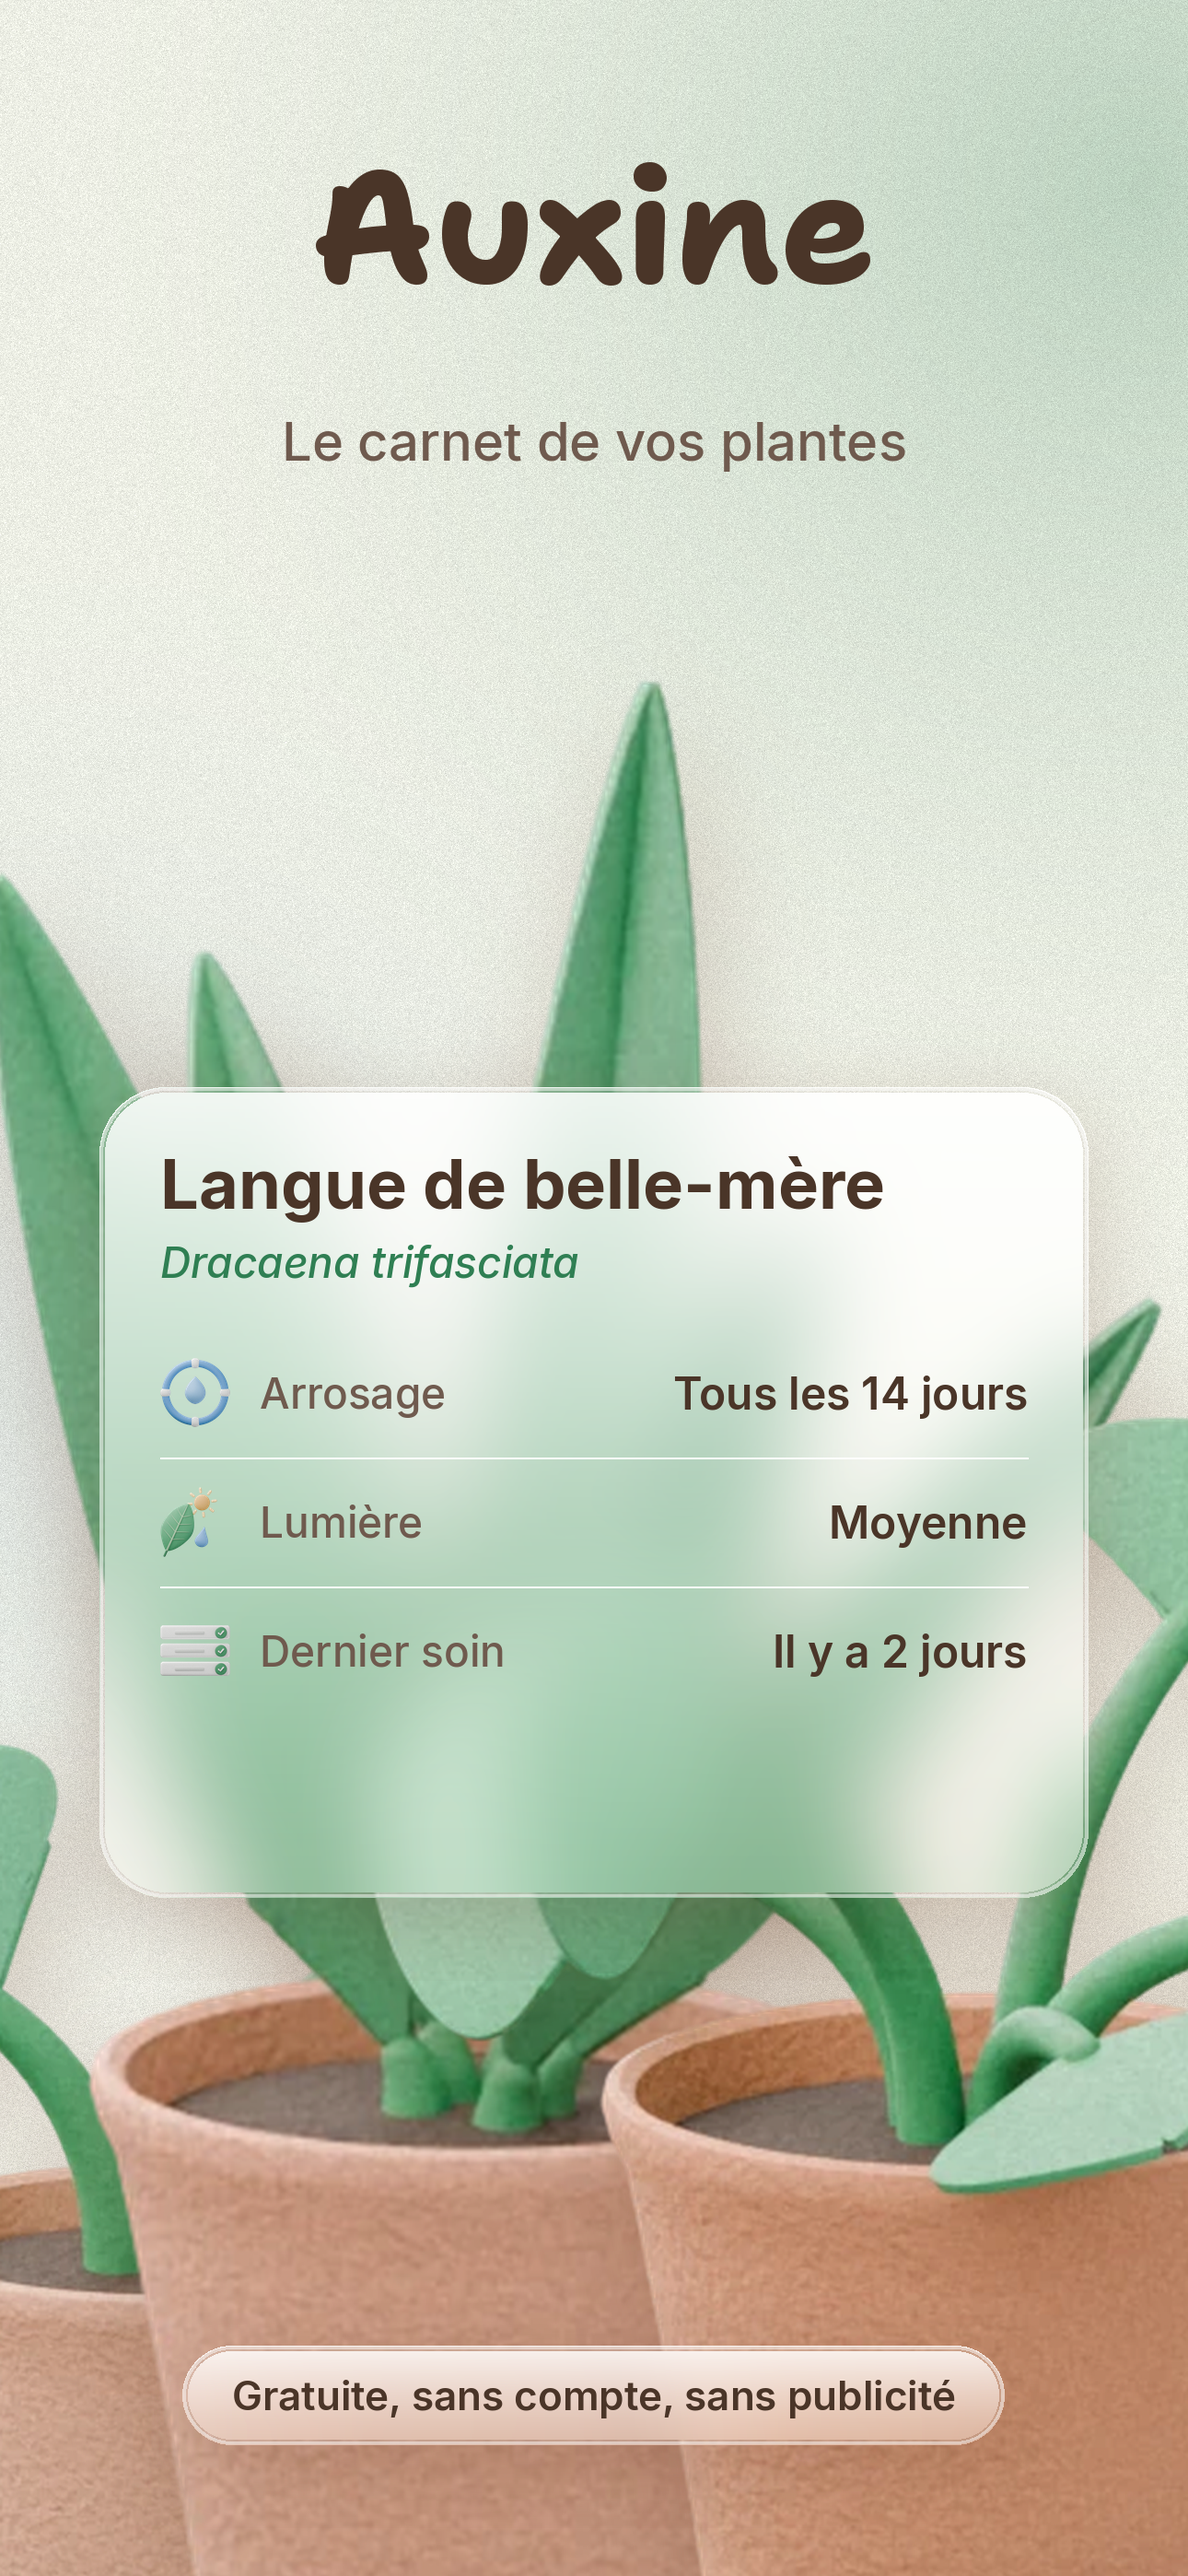
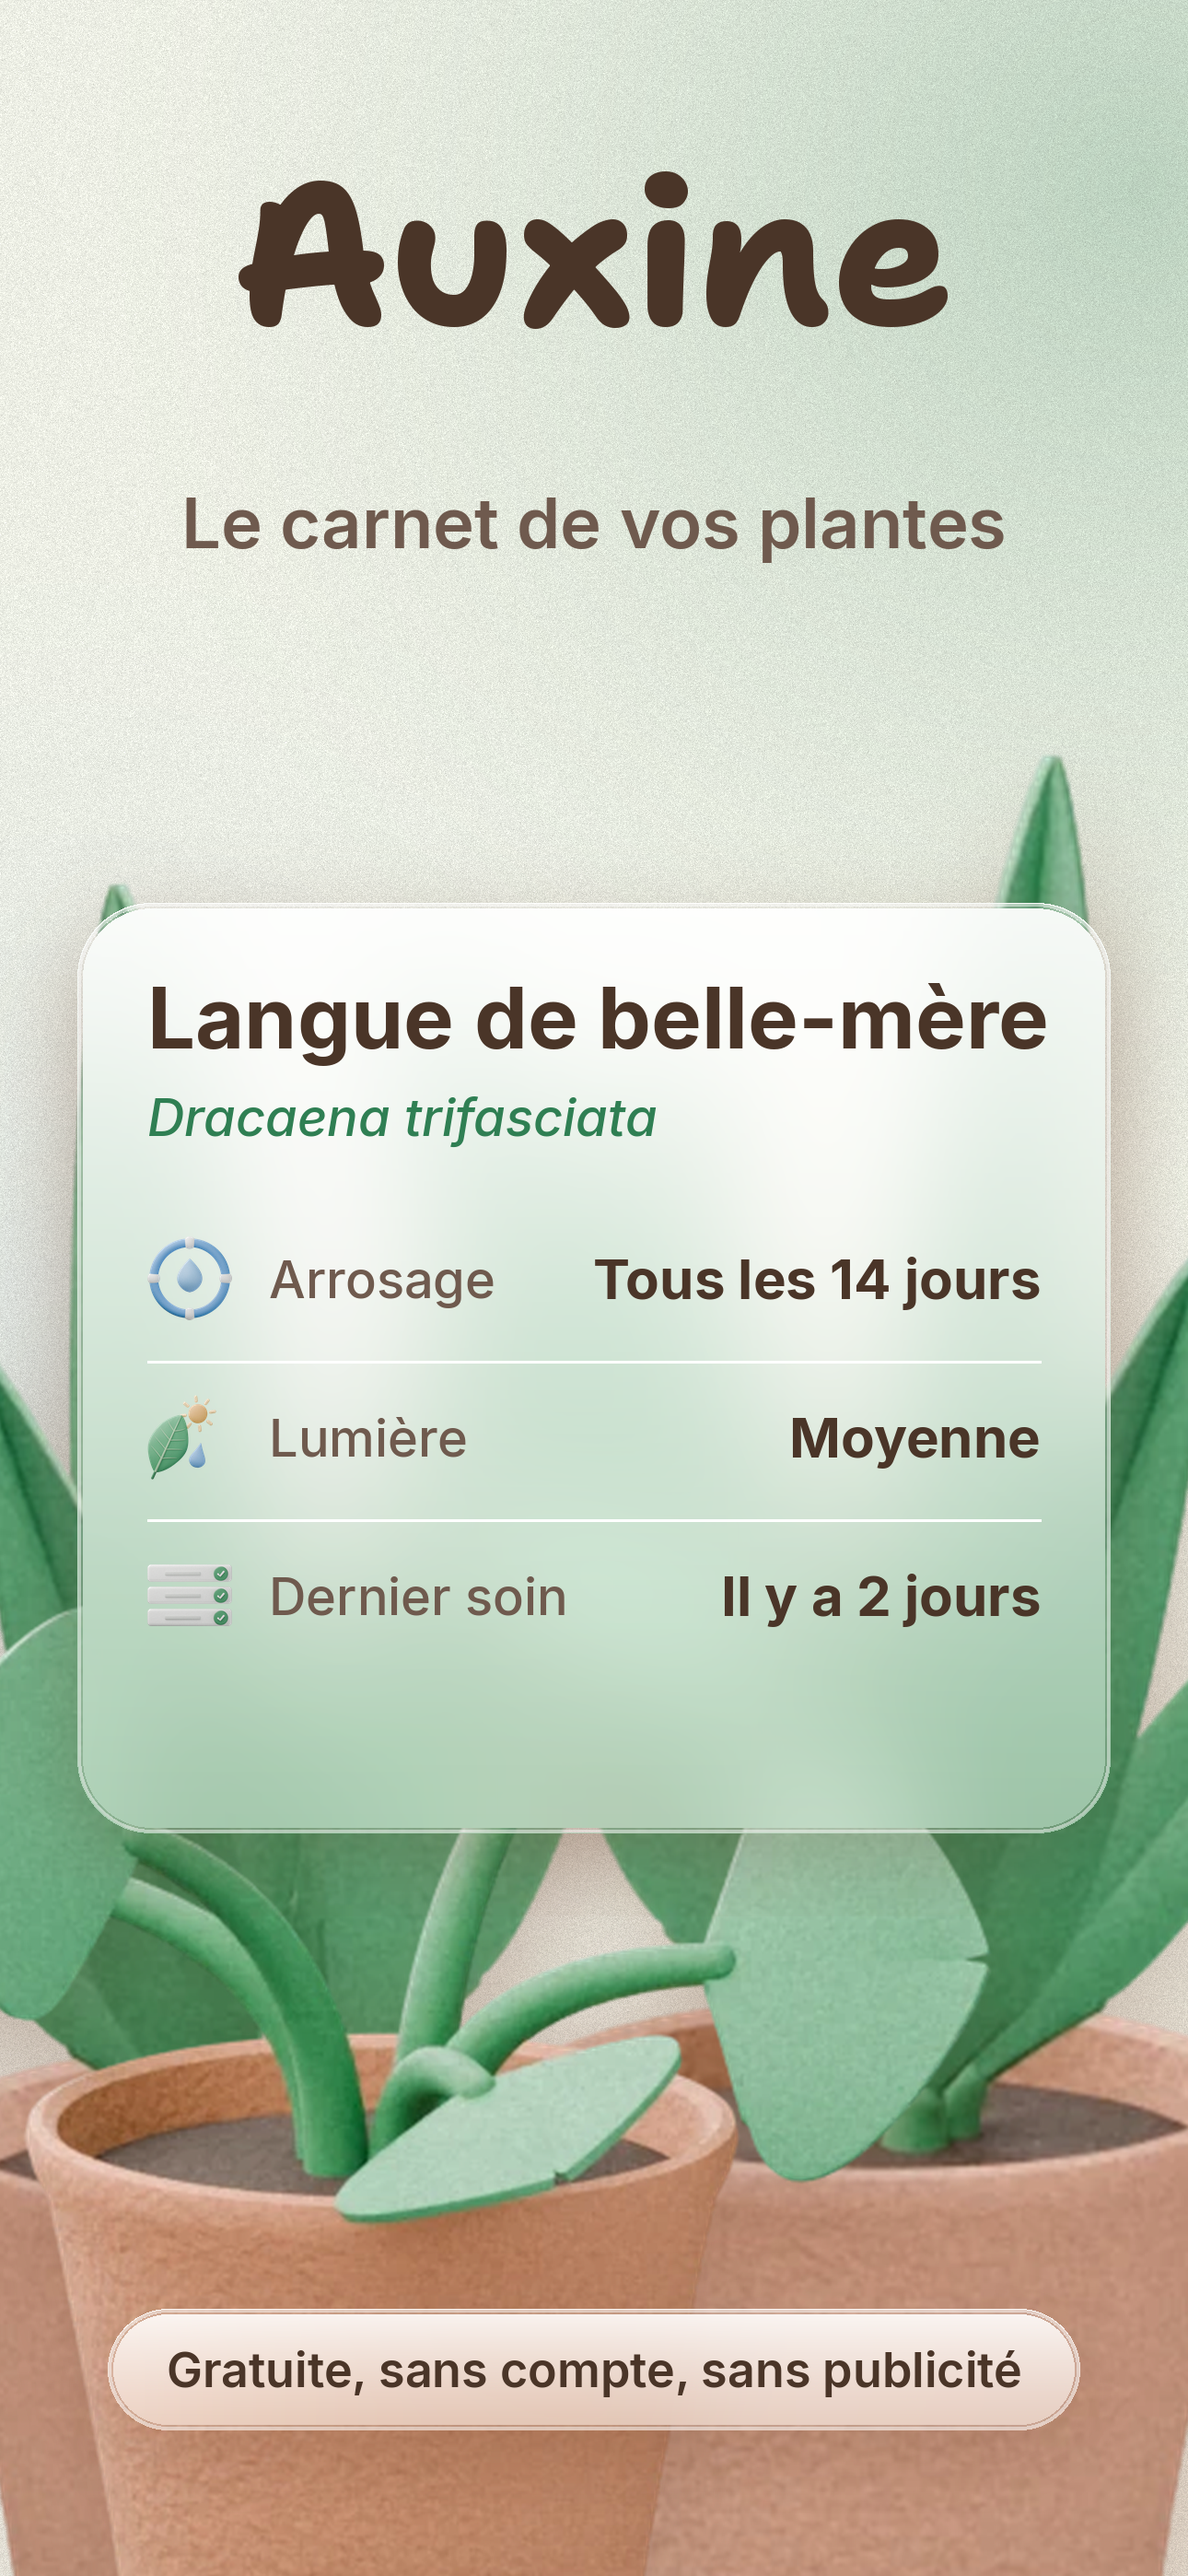
La fiche d'ouverture : tout grossit, le feuillage cesse de gêner
Les textes étaient petits — nom, carte et pied — et les feuilles nettes
passaient derrière la plaque de verre, où elles se lisaient comme du bruit.

Tout monte d'un cran : le nom à 220, la ligne dessous à 76, le nom de la
plante à 92, les lignes de soin à 60. Le verre devient plus franc, plus
flou et plus couvrant, et le massif se tient sur les côtés : deux hautes
de part et d'autre pour encadrer la plaque, une ronde devant pour la
profondeur. Ce qui passe au travers ne donne plus qu'une couleur.

Claude-Session: https://claude.ai/code/session_01NWyBLWU43KdbaGJZsmnCAH

diff --git a/store/compose.py b/store/compose.py
@@ -448,10 +448,14 @@ CREAM = (250, 245, 236)
 WATER = (58, 110, 168)
 
 # Le massif du fond : l'asset, sa hauteur, l'abscisse de son pot.
+# Le massif du fond : l'asset, sa hauteur, l'abscisse de son pot. Ils se
+# tiennent sur les côtés — au milieu, le verre a besoin d'un fond calme.
+# (asset, hauteur, abscisse du pot, retourné). Deux hautes de part et
+# d'autre pour encadrer la plaque, une ronde devant pour la profondeur.
 COVER_PLANTS = [
-    ('collection_semis.webp', 1100, 190),
-    ('collection_sansevieria.webp', 2200, 620),
-    ('collection_ronde.webp', 1400, 1080),
+    ('collection_sansevieria.webp', 1980, 205, True),
+    ('collection_sansevieria.webp', 2120, 1060, False),
+    ('collection_ronde.webp', 1320, 430, False),
 ]
 
 
@@ -461,7 +465,7 @@ def rounded_mask(size, radius):
     return mask
 
 
-def glass(img, box, radius=72, blur=52, alpha=0.26):
+def glass(img, box, radius=72, blur=70, alpha=0.46):
     """Une plaque de verre dépoli posée sur la fiche.
 
     Le verre n'a rien à montrer s'il n'y a rien dessous : on reprend ce que
@@ -510,48 +514,50 @@ def cover(lang):
     img = grain(img, strength=0.035)
 
     d = ImageDraw.Draw(img)
-    d.text((W // 2, 176), 'Auxine', font=hand(172, 750), fill=INK, anchor='mt')
-    d.text((W // 2, 458), t['claim'], font=font('Medium', 58), fill=INK2, anchor='mt')
+    d.text((W // 2, 186), 'Auxine', font=hand(220, 750), fill=INK, anchor='mt')
+    d.text((W // 2, 540), t['claim'], font=font('SemiBold', 76), fill=INK2, anchor='mt')
 
     # Le massif, au fond, coupé par le bas du cadre.
     ground = H + 140
-    for name, height, cx in COVER_PLANTS:
+    for name, height, cx, flip in COVER_PLANTS:
         src = Image.open(os.path.join(CLAY, name)).convert('RGBA')
         src = src.crop(src.getbbox())
+        if flip:
+            src = src.transpose(Image.FLIP_LEFT_RIGHT)
         w = int(src.width * height / src.height)
         paste_with_shadow(img, src.resize((w, height), Image.LANCZOS), (cx - w // 2, ground - height), blur=60, offset=(14, 44), alpha=0.22)
 
     # La plaque de verre, posée au milieu du massif.
-    gx, gy, gw, gh = 108, 1180, W - 216, 880
-    glass(img, (gx, gy, gw, gh))
+    gx, gy, gw, gh = 84, 980, W - 168, 1010
+    glass(img, (gx, gy, gw, gh), radius=80)
     d = ImageDraw.Draw(img)
 
-    pad = 66
-    d.text((gx + pad, gy + pad - 6), t['name'], font=font('Bold', 74), fill=INK)
-    d.text((gx + pad, gy + pad + 96), t['species'], font=font('MediumItalic', 46), fill=SAGE)
+    pad = 76
+    d.text((gx + pad, gy + pad - 8), t['name'], font=font('Bold', 92), fill=INK)
+    d.text((gx + pad, gy + pad + 122), t['species'], font=font('MediumItalic', 56), fill=SAGE)
 
-    y = gy + pad + 196
+    y = gy + pad + 250
     for i, (icon, label, value) in enumerate(t['rows']):
         if i:
-            d.line((gx + pad, y, gx + gw - pad, y), fill=(255, 255, 255, 120), width=2)
-        y += 26
+            d.line((gx + pad, y, gx + gw - pad, y), fill=(255, 255, 255, 150), width=3)
+        y += 30
         obj = Image.open(os.path.join(ROOT, icon)).convert('RGBA')
         obj = obj.crop(obj.getbbox())
-        side = 76
+        side = 92
         obj = obj.resize((int(obj.width * side / max(obj.width, obj.height)), int(obj.height * side / max(obj.width, obj.height))), Image.LANCZOS)
-        img.alpha_composite(obj, (gx + pad, y + (88 - obj.height) // 2))
+        img.alpha_composite(obj, (gx + pad, y + (104 - obj.height) // 2))
         d = ImageDraw.Draw(img)
-        d.text((gx + pad + 108, y + 44), label, font=font('Medium', 46), fill=INK2, anchor='lm')
-        d.text((gx + gw - pad, y + 44), value, font=font('SemiBold', 48), fill=INK, anchor='rm')
-        y += 114
+        d.text((gx + pad + 132, y + 52), label, font=font('Medium', 56), fill=INK2, anchor='lm')
+        d.text((gx + gw - pad, y + 52), value, font=font('Bold', 60), fill=INK, anchor='rm')
+        y += 142
 
-    # Ce qui est gratuit, sur une plaque de verre à sa taille : le fond est
-    # chargé à cet endroit, et le texte nu s'y perdait.
-    f_foot = font('SemiBold', 44)
-    fw = int(d.textlength(t['footer'], font=f_foot)) + 108
-    fh = 108
-    fx, fy = (W - fw) // 2, H - 250
-    glass(img, (fx, fy, fw, fh), radius=fh // 2, blur=36, alpha=0.34)
+    # Ce qui est gratuit, sur une plaque du même verre : le fond est chargé
+    # à cet endroit, et le texte nu s'y perdait.
+    f_foot = font('SemiBold', 52)
+    fw = int(d.textlength(t['footer'], font=f_foot)) + 128
+    fh = 132
+    fx, fy = (W - fw) // 2, H - 290
+    glass(img, (fx, fy, fw, fh), radius=fh // 2, blur=50, alpha=0.52)
     ImageDraw.Draw(img).text((W // 2, fy + fh // 2), t['footer'], font=f_foot, fill=INK, anchor='mm')
     return img
 

diff --git a/store/README.md b/store/README.md
@@ -4,9 +4,11 @@ Huit visuels par langue, au format iPhone 6,7 pouces (1290 × 2796). Le
 premier ne montre pas un écran : un massif de plantes d'argile occupe la
 fiche, et une plaque de verre dépoli posée dessus porte ce que l'app dit
 d'une plante — son nom, son espèce, son arrosage, sa lumière, son dernier
-soin. Le verre reprend ce qu'il y a dessous, le floute et l'éclaircit d'un
-souffle ; ce sont les feuilles qui passent au travers qui lui donnent sa
-couleur, et le liseré clair du pourtour son épaisseur. Le nom est tracé à
+soin. Le verre reprend ce qu'il y a dessous, le floute largement et
+l'éclaircit ; ce sont les feuilles qui passent au travers qui lui donnent
+sa couleur, et le liseré clair du pourtour son épaisseur. Le massif se
+tient sur les côtés et le flou est franc : derrière une plaque, un
+feuillage net se lit comme du bruit, et la carte cesse d'être lisible. Le nom est tracé à
 la main sur le papier de l'app, et ce qui est gratuit tient sur une petite
 plaque du même verre. Les sept autres montrent une capture réelle de l'app dans un
 iPhone dessiné, entier et droit, l'écran complet : c'est l'écran qu'on vend,
